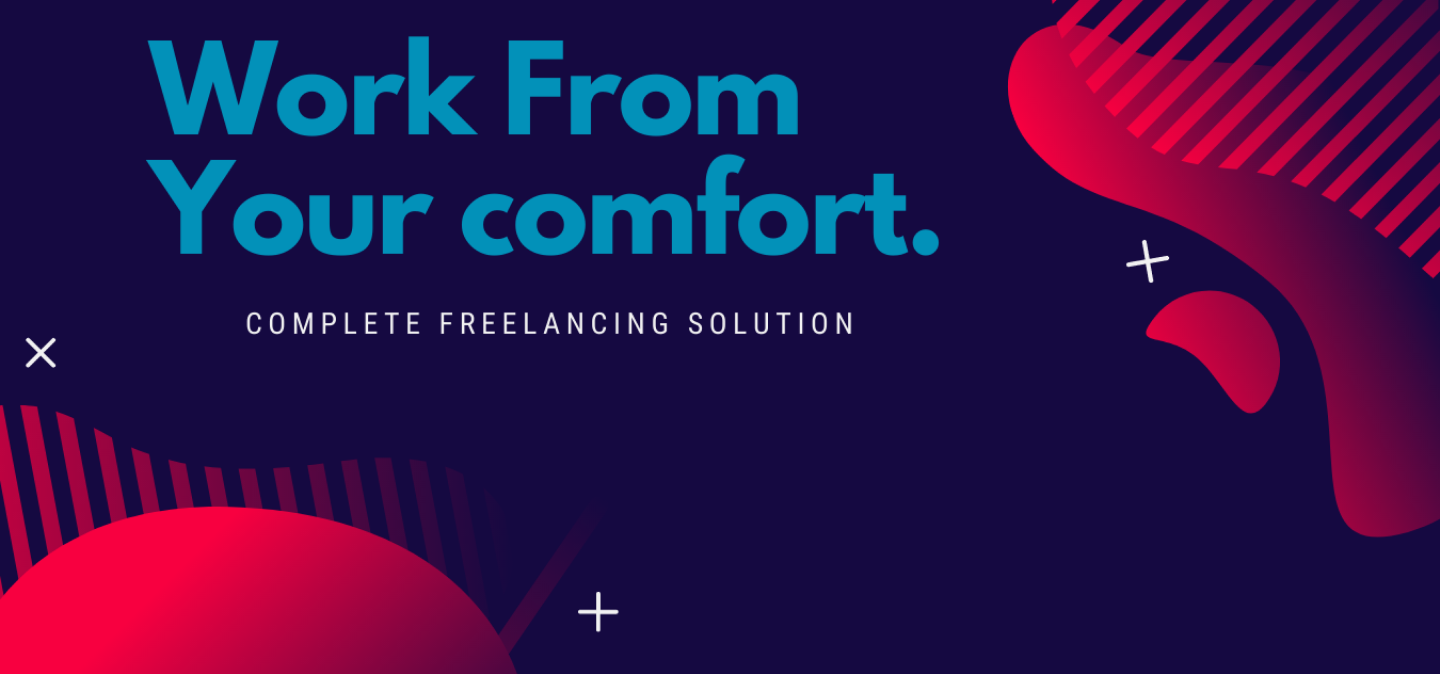
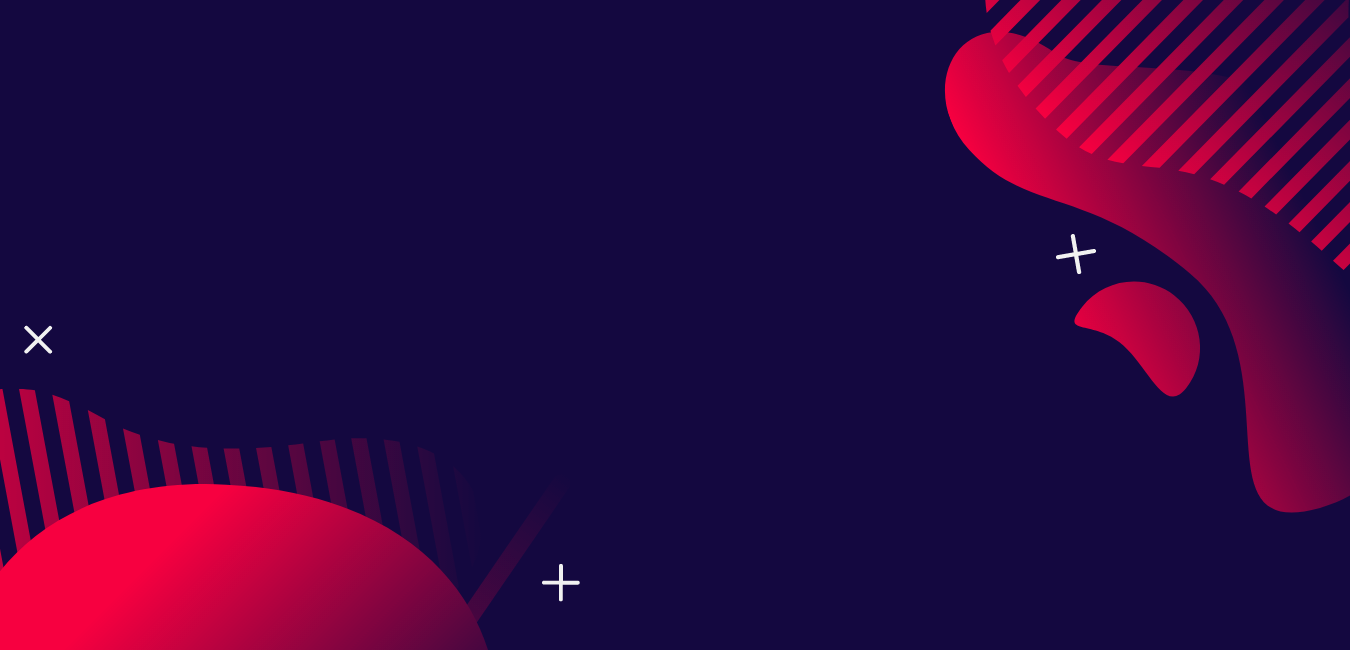
how it work

diff --git a/src/components/Footer.js b/src/components/Footer.js
@@ -1,0 +1,46 @@
+import React from 'react'
+import '../components/styles/Footer.css'
+import {FaFacebook,FaTwitter,FaInstagram} from 'react-icons/fa'
+
+const Footer = () => {
+    return (
+        <footer>
+            <div className="footer_container">
+                <div className="most_demand">
+                    <h4>Most Demand Talent</h4>
+                <hr />
+                    <p>Mobile App Development</p>
+                    <p>Mobile App Development</p>
+                    <p>Mobile App Development</p>
+                    <p>Mobile App Development</p>
+                </div>
+
+                <div className="about">
+                    <h4>About</h4>
+                    <hr />
+                    <p>About Us</p>
+                    <p>How We Work</p>
+                </div>
+                <div className="contact_details">
+                    <h4>Contact</h4>
+                    <hr />
+                    <p>Contact us</p>
+                </div>
+                <div className="social">
+                    <h4>Social</h4>
+                    <hr />
+                    <div className="socail_icons">
+                        <FaFacebook />
+                        <FaInstagram />
+                        <FaTwitter />
+                    </div>
+                </div>
+            </div>
+            <div className="footer_last">
+
+            </div>
+        </footer>
+    )
+}
+
+export default Footer

diff --git a/src/components/styles/BrowseProject.css b/src/components/styles/BrowseProject.css
@@ -1,4 +1,4 @@
-main{
+.main{
     display: flex;
     width: 100%;
 }
@@ -9,7 +9,7 @@ aside{
 
 .projects{
     width: 65%;
-    background-color: #ddd;
+    /* background-color: #ddd; */
     display: flex;
     flex-direction: column;
 }
@@ -19,6 +19,8 @@ aside{
     justify-content: space-between;
     margin: 15px 10px;
     padding: 15px 10px;
+    box-shadow: 1px 2px 2px 2px #ccc;
+    border-radius: 10px;
 
 }
 .category{
@@ -27,6 +29,7 @@ aside{
     color: white;
     padding: 5px 5px;
     border-radius: 10px;
+    font-size: 12px;
 }
 
 .subcategory{
@@ -34,4 +37,6 @@ aside{
     color: white;
     padding: 5px 5px;
     border-radius: 10px;
+    font-size: 12px;
+
 }

diff --git a/src/components/styles/how-we-works.css b/src/components/styles/how-we-works.css
@@ -1,8 +1,16 @@
+@import url('https://fonts.googleapis.com/css2?family=Montserrat:wght@400;500;700&display=swap');
 header{
-    background-image: url(../../assets/images/how-we-work.png);
+    background-image: url(../../assets/images/how-it-works.jpg);
     background-position: top;
     background-size: cover;
     height: 95vh;
+    display: flex;
+    flex-direction: column;
+    align-items: center;
+    justify-content: center;
+    color: #fff;
+    font-family: 'Montserrat', sans-serif;
+    font-weight: 700;
 }
 
 .container{

diff --git a/src/components/Header.js b/src/components/Header.js
@@ -19,7 +19,7 @@ const Header = () => {
   window.onscroll = ()=>{
     if(window.pageYOffset > 50)
     {
-      setbgcolor("black");
+      setbgcolor("#0291B9");
      settextcolor("white")
      setposition("fixed")
     }
@@ -34,7 +34,7 @@ const Header = () => {
       }
     
       else{
-        setbgcolor("black");
+        setbgcolor("#0291B9");
         settextcolor("white")
         setposition("relative")
       }

diff --git a/src/components/layout.js b/src/components/layout.js
@@ -1,5 +1,6 @@
 import * as React from "react"
 import Header from "./Header"
+import Footer from './Footer'
 import { GlobalStyle } from "./styles/GlobalStyles"
 import 'bootstrap/dist/css/bootstrap.min.css';
 
@@ -11,6 +12,7 @@ const Layout = ({ children }) => {
     <GlobalStyle/>
       <Header/>
       <main>{children}</main>
+      <Footer/>
     </>
   )
 }

diff --git a/src/components/BrowseProject.js b/src/components/BrowseProject.js
@@ -3,7 +3,7 @@ import "../components/styles/BrowseProject.css"
 import {browsejob } from '../data/browsejob'
 const BrowseProject = ({}) => {
     return (
-        <main>
+        <main className="main">
             <aside>
 Filer Porjects
             </aside>

diff --git a/src/components/styles/Footer.css b/src/components/styles/Footer.css
@@ -1,0 +1,19 @@
+footer{
+    background-color: #0291B9;
+
+}
+
+.footer_container{
+    padding: 5% 0;
+    display: flex;
+    justify-content: space-around;
+    color: #fff;
+}
+
+hr{
+    background-color: #fff;
+}
+
+.socail_icons *{
+    margin: 0 10px;
+}

diff --git a/src/pages/how-it-works.js b/src/pages/how-it-works.js
@@ -10,7 +10,8 @@ const howworks = () => {
     return (        
 <Layout>
     <header>
-
+<p>WE WORK HARD, WE PLAY HARD</p>
+<h1>Work With Us</h1>
     </header>
     <main>
         <Container>
